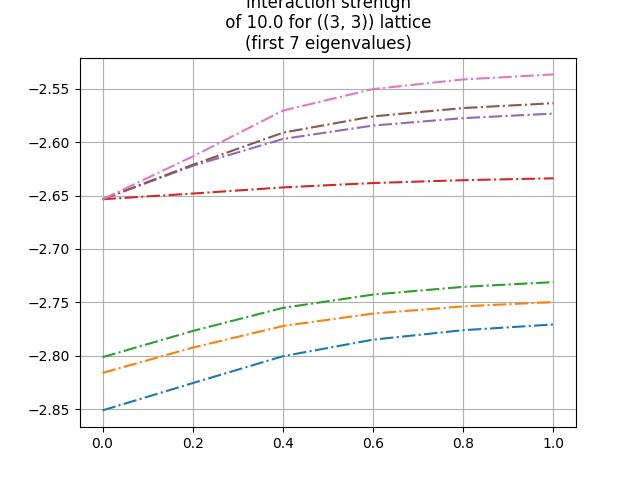
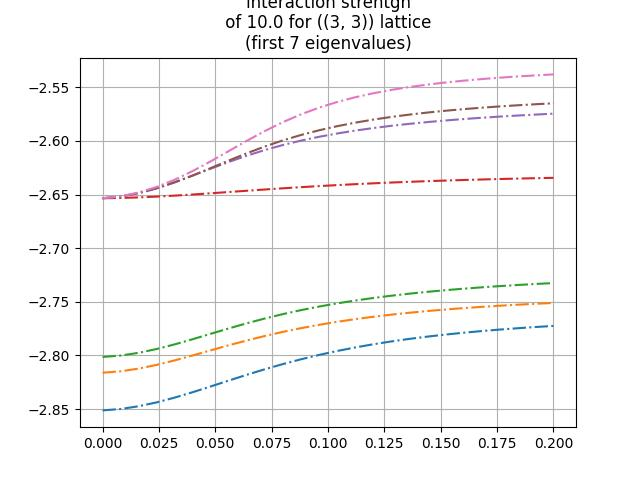
.

diff --git a/vqe_simulation.py b/vqe_simulation.py
@@ -7,12 +7,12 @@ import multiprocessing
 # Check the operating system
 if platform.system() == "Linux":
     # Set environment variables to limit CPU usage on Linux
-    os.environ["OMP_NUM_THREADS"] = "N"
-    os.environ["MKL_NUM_THREADS"] = "N"
-    os.environ["NUMEXPR_NUM_THREADS"] = "N"
-    os.environ["OPENBLAS_NUM_THREADS"] = "N"
-    os.environ["JAX_NUM_THREADS"] = "N"
-    print("CPU usage limited to N threads on Linux.")
+    os.environ["OMP_NUM_THREADS"] = "10"
+    os.environ["MKL_NUM_THREADS"] = "10"
+    os.environ["NUMEXPR_NUM_THREADS"] = "10"
+    os.environ["OPENBLAS_NUM_THREADS"] = "10"
+    os.environ["JAX_NUM_THREADS"] = "10"
+    print("CPU usage limited to 10 threads on Linux.")
 elif platform.system() == "Darwin":
     # macOS-specific behavior (no limitation)
     print("Running on macOS. No CPU limitation applied.")

diff --git a/local_pot.py b/local_pot.py
@@ -14,13 +14,14 @@ Ny = 6
 path = str(f"./results/local_potential/interaction_shift/Nx-{Nx}_Ny-{Ny}")
 os.makedirs(path, exist_ok=True)
 
-pot_strength_list = np.linspace(0,0.1,num=25+1)
+pot_strength_list = np.linspace(0,0.01,num=25+1)
 
 H_non_interacting = sparse.load_npz(str(f'data/matrix/H_Nx-{Nx}_Ny-{Ny}.npz'))
 interaction = sparse.load_npz(str(f'data/matrix/interactions_Nx-{Nx}_Ny-{Ny}.npz'))
 local_pot = sparse.load_npz(str(f'data/matrix/local_potential_Nx-{Nx}_Ny-{Ny}.npz'))
 
-for interaction_strength in ([1e-1, 1e0, 1e1, 1e2, 1e3]):
+for interaction_strength in ([1e3]):
+# for interaction_strength in ([1e-1, 1e0, 2e0, 1e1, 1e2, 1e3]):
     print(f"interaction strength = {interaction_strength}")
     eigenvalues_list = []
     H = H_non_interacting + interaction_strength * interaction
